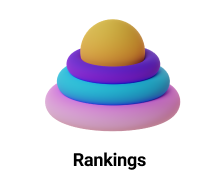
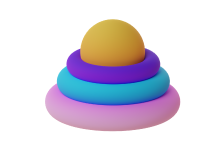
feat: create rankings screen

Changed region(s): [[0.1927, 0.1067, 0.8257, 1.0]]

diff --git a/src/screens/Rankings/index.tsx b/src/screens/Rankings/index.tsx
@@ -1,14 +1,40 @@
 import React from 'react'
-import { StyleSheet, Text, View } from 'react-native'
+import { Image, Text, View } from 'react-native'
+import { FlatList } from 'react-native-gesture-handler'
+import UserRankingItem from '../../components/UserRankingItem'
+import styles from './styles'
+const image = require('../../../assets/images/Saly-20.png')
+
+const COINS = [
+  { id: 1, name: 'Virtual USD', image: '', netWorth: 1000 },
+  { id: 2, name: 'Bitcoin', image: '', netWorth: 65464 },
+]
 
 const RankingsScreen = () => {
   return (
-    <View style={{ flex: 1, justifyContent: 'center', alignItems: 'center' }}>
-      <Text>Rankings</Text>
+    <View style={styles.container}>
+      <FlatList
+        data={COINS}
+        renderItem={({ item, index }) => (
+          <UserRankingItem
+            ranking={index + 1}
+            name={item.name}
+            image={item.image}
+            netWorth={item.netWorth}
+          />
+        )}
+        style={{ width: '100%' }}
+        ListHeaderComponentStyle={{ alignItems: 'center' }}
+        ListHeaderComponent={() => (
+          <>
+            <Image style={styles.image} source={image} />
+            <Text style={styles.rankings}>Rankings</Text>
+          </>
+        )}
+        showsVerticalScrollIndicator={false}
+      />
     </View>
   )
 }
 
 export default RankingsScreen
-
-const styles = StyleSheet.create({})

diff --git a/src/components/UserRankingItem.tsx b/src/components/UserRankingItem.tsx
@@ -1,0 +1,54 @@
+import React from 'react'
+import { StyleSheet, Image, Text, View } from 'react-native'
+
+interface IMarketCoinProps {
+  ranking: number
+  image: string
+  name: string
+  netWorth: number
+}
+
+const UserRankingItem = ({ ranking, image, name, netWorth }: IMarketCoinProps) => (
+  <View style={styles.container}>
+    <Text style={styles.ranking}>{ranking}</Text>
+    <Image style={styles.image} source={{ uri: image }} />
+    <Text style={styles.name}>{name}</Text>
+    <Text style={styles.netWorth}>${netWorth}</Text>
+  </View>
+)
+
+export default UserRankingItem
+
+const styles = StyleSheet.create({
+  container: {
+    flexDirection: 'row',
+    alignItems: 'center',
+    width: '100%',
+    marginVertical: 5,
+    padding: 6,
+    height: 55,
+    backgroundColor: '#26242D',
+  },
+  image: {
+    width: 45,
+    height: 45,
+    marginLeft: 6,
+  },
+  ranking: {
+    fontSize: 18,
+    fontWeight: 'bold',
+    color: 'white',
+    paddingHorizontal: 5
+  },
+  name: {
+    flex: 1,
+    color: 'white',
+    fontWeight: 'bold',
+    marginLeft: 10
+  },
+  netWorth: {
+    color: 'white',
+    fontSize: 16,
+    fontWeight: '600',
+  },
+})

diff --git a/src/screens/Rankings/styles.ts b/src/screens/Rankings/styles.ts
@@ -1,0 +1,21 @@
+import { StyleSheet } from 'react-native'
+
+const styles = StyleSheet.create({
+  container: {
+    flex: 1,
+    alignItems: 'center',
+    padding: 20,
+  },
+  image: {
+    height: 150,
+    resizeMode: 'contain',
+  },
+  rankings: {
+    fontWeight: 'bold',
+    color: 'white',
+    fontSize: 24,
+    marginBottom: 16,
+  },
+})
+
+export default styles
